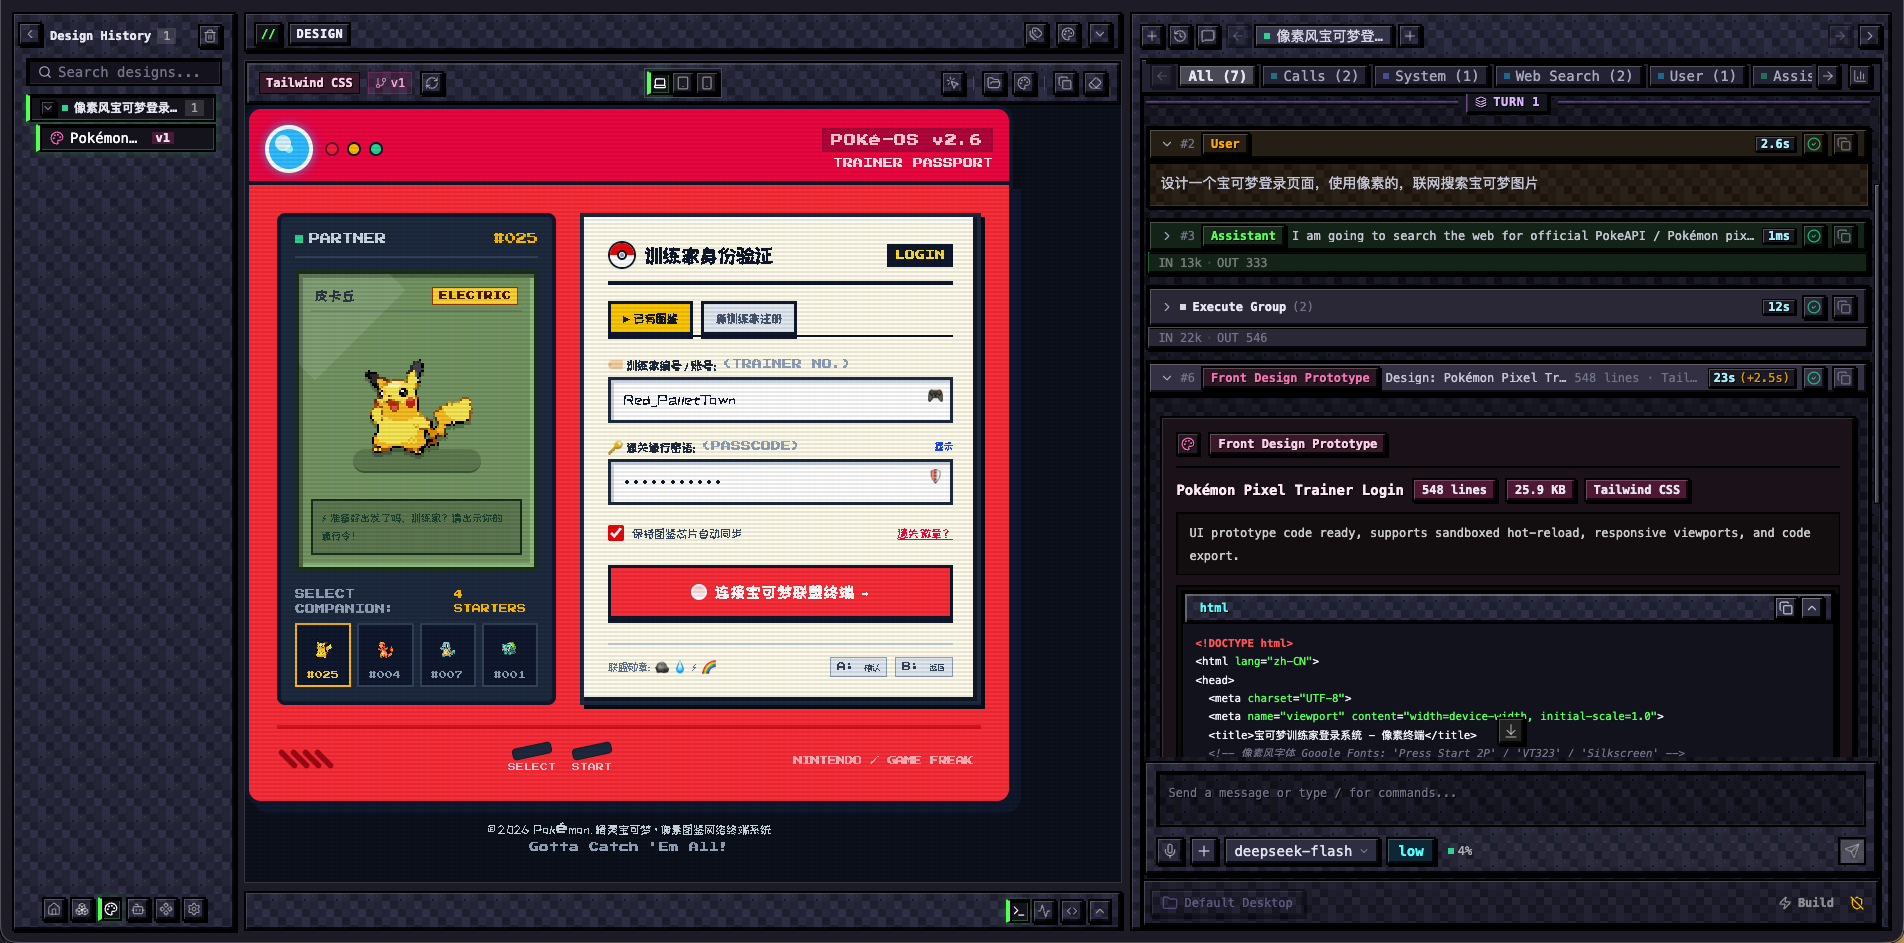
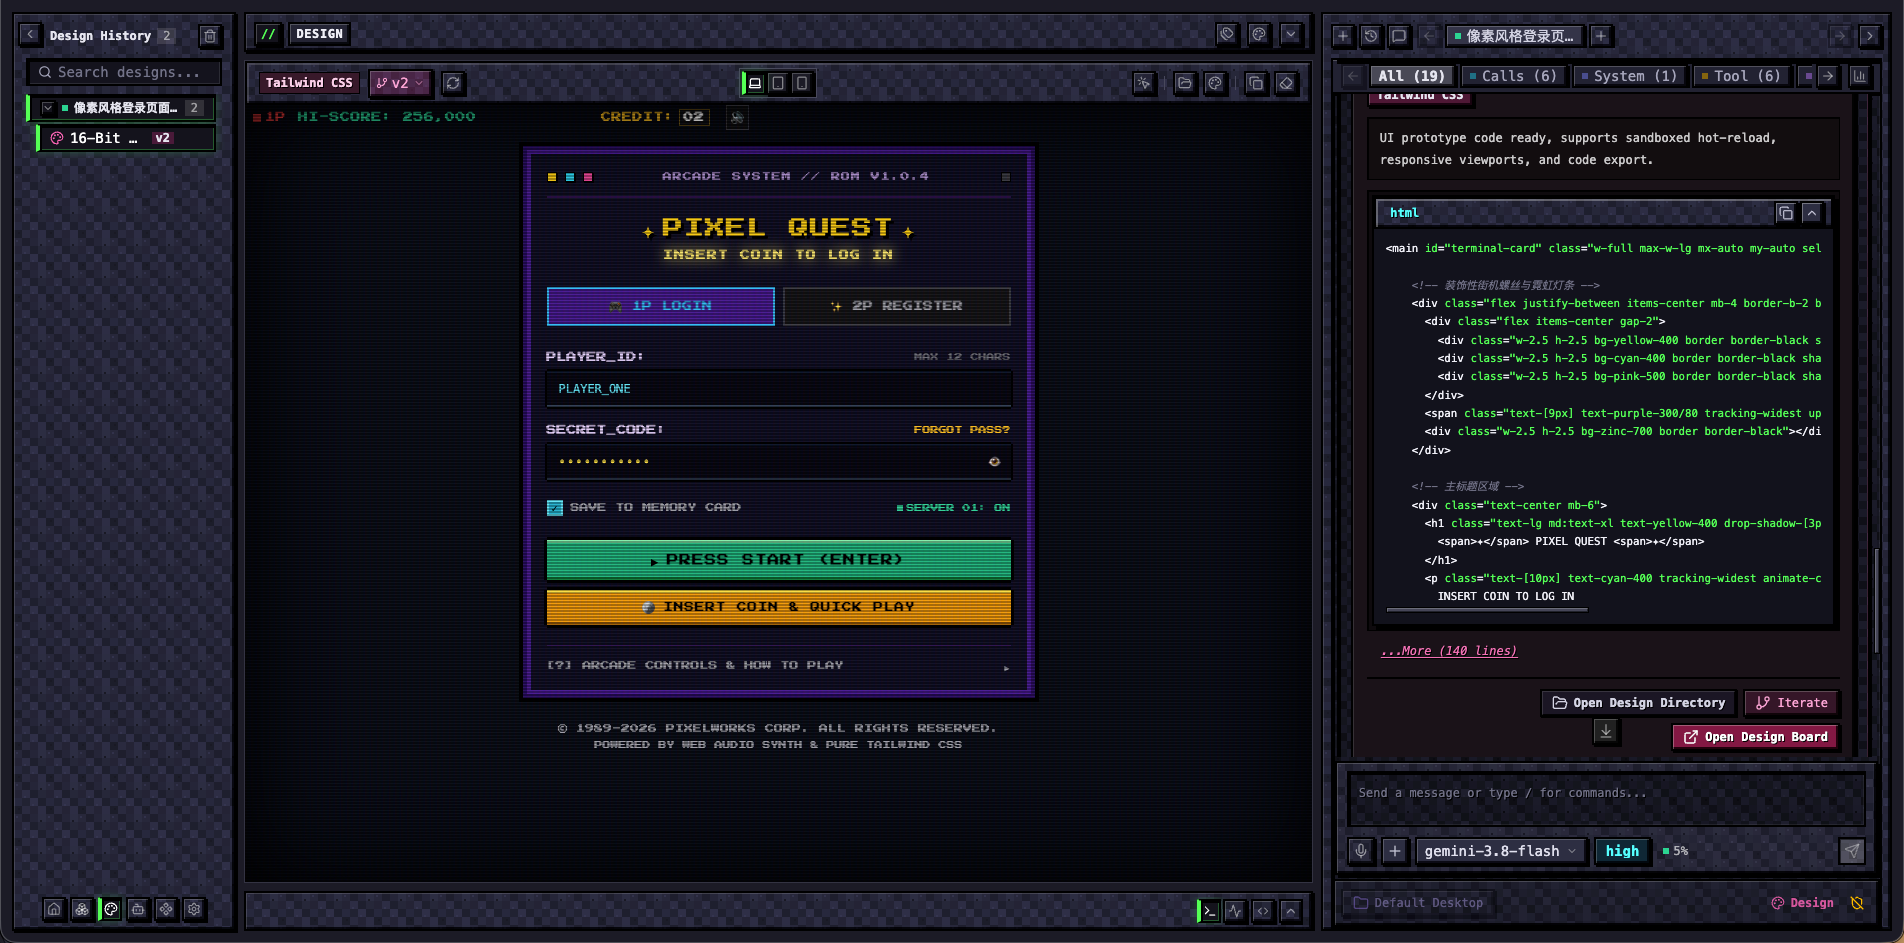
docs: 替换 Front Design 与 OpenClaw 截图
- front-design-canvas.png：改为自研像素街机登录页（移除第三方 IP 内容），
  图注补充「同步展示生成代码与迭代入口」
- openclaw-workspace.png：实例地址打码，移除内网 IP 暴露

diff --git a/README.md b/README.md
@@ -59,7 +59,7 @@ versioned in the same workspace, with an agent that can read and patch real file
 
 | Front Design canvas | OpenClaw multi-instance workspace |
 | :---: | :---: |
-| ![Front Design canvas rendering an agent-generated design live](./docs/assets/front-design-canvas.png) | ![OpenClaw workspace with offices, team members and a merged conversation](./docs/assets/openclaw-workspace.png) |
+| ![Front Design canvas rendering an agent-generated design live, with the generated code and iterate actions alongside](./docs/assets/front-design-canvas.png) | ![OpenClaw workspace with offices, team members and a merged conversation](./docs/assets/openclaw-workspace.png) |
 
 ### Pixel theme
 

diff --git a/README.zh-CN.md b/README.zh-CN.md
@@ -54,7 +54,7 @@ LX Agent 是一个 Electron 桌面应用，让你与具备编码能力的 Agent 
 
 | Front Design 画布 | OpenClaw 多实例工作区 |
 | :---: | :---: |
-| ![Front Design 画布实时渲染 Agent 生成的设计稿](./docs/assets/front-design-canvas.png) | ![OpenClaw 工作区：办公区、员工与合流对话](./docs/assets/openclaw-workspace.png) |
+| ![Front Design 画布实时渲染 Agent 生成的设计稿，右侧同步展示生成的代码与迭代入口](./docs/assets/front-design-canvas.png) | ![OpenClaw 工作区：办公区、员工与合流对话](./docs/assets/openclaw-workspace.png) |
 
 ### 像素主题
 
